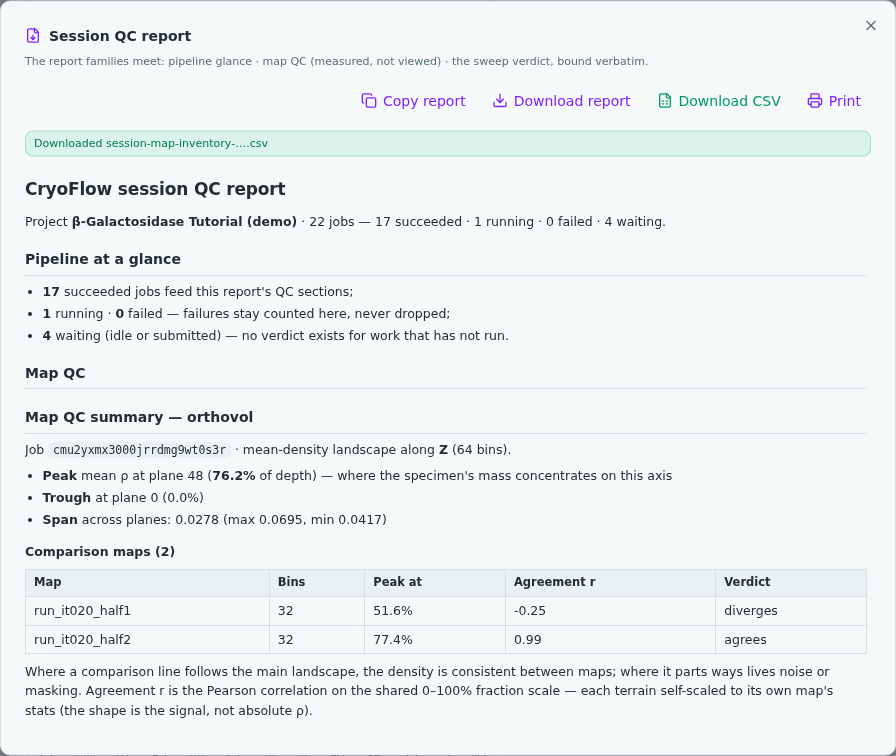
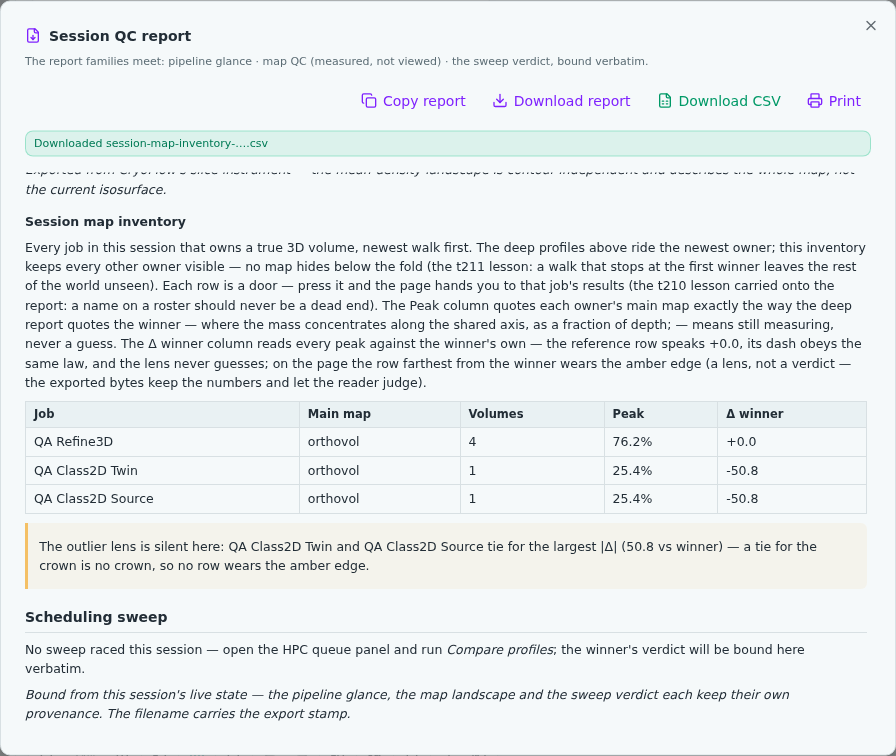
feat(qc-report): silence has two meanings — the lens speaks the contested crown. t219 carried the tie branch onto the wire, but the paper stayed SILENT there: zero amber is the truth when everyone agrees, and a mystery when two rows share the largest |Δ| (the same volume imported twice under two nam

diff --git a/src/lib/qc-report.ts b/src/lib/qc-report.ts
@@ -250,31 +250,62 @@ export const inventoryCsv = (rows: InventoryCsvRow[] | null): string | null => {
   return [line(["job", "main_map", "volumes", "peak_pct", "delta_winner"]), ...body].join("\n");
 };
 
-/** t215: WHO is the outlier? The row whose |Δ| is strictly the largest
- *  AND strictly greater than zero — a tie for the crown is no crown
- *  (a contested superlative is a guess, and the lens never guesses),
- *  and the winner's own +0.0 can never outshine itself. Returns the
- *  row index, or -1 when the world is tied / unmeasured. Three-state
- *  discipline: comparisons are >=/> with an epsilon, never a unary
- *  (a<b?1:-1) — the t211 comparator lesson, lens edition. */
-export const outlierRowIdx = (rows: { peakPct: number | null }[]): number => {
+/** The ONE scan both lenses read (t220: twins fork, imports don't —
+ *  a second scan is a second father for the verdict, and the two lenses
+ *  must never disagree about who led the field). Walks the rows once,
+ *  tracking the strictly-largest |Δ| on the 1-decimal grid with the
+ *  epsilon discipline (t215: comparisons, never a unary comparator),
+ *  and collects EVERY row that shares it. The winner's own +0.0 can
+ *  never lead (a > 1e-9 gate); unmeasured rows are invisible to the
+ *  scan (— stays —). abs is the shared magnitude on the same grid. */
+type CrownScan = { abs: number; indices: number[] };
+const crownScan = (rows: { peakPct: number | null }[]): CrownScan => {
   const w = rows[0]?.peakPct ?? null;
-  if (w == null) return -1;
-  let best = -1;
+  if (w == null) return { abs: 0, indices: [] };
   let bestAbs = 0;
-  let unique = false;
+  let indices: number[] = [];
   rows.forEach((r, i) => {
     if (r.peakPct == null) return;
     const a = Math.abs(Number((r.peakPct - w).toFixed(1)));
     if (a > bestAbs + 1e-9) {
-      best = i;
       bestAbs = a;
-      unique = true;
-    } else if (Math.abs(a - bestAbs) <= 1e-9 && i !== best) {
-      unique = false;
+      indices = [i];
+    } else if (Math.abs(a - bestAbs) <= 1e-9 && a > 1e-9) {
+      indices.push(i);
     }
   });
-  return unique && bestAbs > 1e-9 ? best : -1;
+  return { abs: bestAbs, indices };
+};
+
+/** t215: WHO is the outlier? The row whose |Δ| is strictly the largest
+ *  AND strictly greater than zero — a tie for the crown is no crown
+ *  (a contested superlative is a guess, and the lens never guesses).
+ *  Returns the row index, or -1 when the world is tied / unmeasured.
+ *  t220: the scan is SHARED with contestedCrown — one walk of the rows
+ *  feeds both lenses, so the amber edge and the paper's tie note can
+ *  never be two opinions. */
+export const outlierRowIdx = (rows: { peakPct: number | null }[]): number => {
+  const { abs, indices } = crownScan(rows);
+  return indices.length === 1 && abs > 1e-9 ? indices[0] : -1;
+};
+
+/** t220: silence has TWO meanings, and a lens that cannot tell them
+ *  apart leaves the reader guessing. When every measured row agrees
+ *  with the winner, zero amber is the truth and needs no footnote; but
+ *  when two or more rows SHARE the strictly-largest |Δ| — the same map
+ *  imported twice under two names, a duplicated job, two fathers of one
+ *  shape — outlierRowIdx returns -1 and the reader sees an unexplained
+ *  absence. contestedCrown speaks that case: it returns the shared
+ *  magnitude and the indices of every row tied for the crown, so the
+ *  paper can NAME the standoff instead of leaving silence. Returns null
+ *  when the world has a unique outlier (the amber edge already speaks)
+ *  or no divergence at all (nothing to explain). Same scan, same grid,
+ *  same epsilon — a sibling lens, not a second opinion. */
+export const contestedCrown = (
+  rows: { peakPct: number | null }[],
+): { abs: number; indices: number[] } | null => {
+  const { abs, indices } = crownScan(rows);
+  return indices.length > 1 ? { abs, indices } : null;
 };
 
 /** Every PAIR of comparison terrains, correlated on the shared fraction
@@ -657,6 +688,30 @@ export const buildSessionReport = (opts: {
       lines.push(`| ${mdCell(o.jobName)} | ${mdCell(o.mainName)} | ${o.volumeCount} | ${o.peak ?? "—"} | ${delta ?? "—"} |`);
     }
     lines.push("");
+    // t220: the lens explains its own silences. When the crown is
+    // contested (contestedCrown — the SAME scan the amber edge reads,
+    // so the page and the paper can never disagree) the zero-amber
+    // table gets a footnote naming every contender and the shared |Δ|.
+    // The note lives in the MARKDOWN — the exported bytes and the
+    // clipboard copy carry the explanation, not just the page (the
+    // t218 CSV stays numbers-only: the roster's machine grid speaks
+    // facts, the lens's verdicts travel with the paper). In a world
+    // with a unique outlier or no divergence this line is never born —
+    // front-wave probes' paper bytes are untouched.
+    const crown = contestedCrown(mapInventory);
+    if (crown) {
+      const andList = (names: string[]): string =>
+        names.length <= 1
+          ? names.join("")
+          : `${names.slice(0, -1).join(", ")} and ${names[names.length - 1]}`;
+      const contenders = crown.indices
+        .map((i) => mapInventory[i]?.jobName)
+        .filter((n): n is string => !!n);
+      lines.push(
+        `> The outlier lens is silent here: ${andList(contenders)} tie for the largest |Δ| (${crown.abs.toFixed(1)} vs winner) — a tie for the crown is no crown, so no row wears the amber edge.`,
+      );
+      lines.push("");
+    }
   }
   lines.push("## Scheduling sweep");
   lines.push("");

diff --git a/src/app/globals.css b/src/app/globals.css
@@ -1388,11 +1388,19 @@ li[data-swipe="end"] {
 .report-doc p { margin: 0.4rem 0; }
 .report-doc ul { margin: 0.4rem 0; padding-left: 1.1rem; list-style: disc; }
 .report-doc li { margin: 0.15rem 0; }
+/* t220: the tie footnote — the lens explains its own silence. The
+   report's only blockquote is a lens annotation, so the note wears the
+   lens color: amber edge and a faint amber wash, rounded on the open
+   side, text kept at full foreground for contrast (amber TEXT on a
+   dark canvas is a squint — the color lives in the frame, not the
+   words). */
 .report-doc blockquote {
-  margin: 0.5rem 0;
-  padding: 0.25rem 0.6rem;
-  border-left: 3px solid var(--border);
-  color: var(--muted-foreground);
+  margin: 0.6rem 0;
+  padding: 0.45rem 0.7rem;
+  border-left: 3px solid rgb(245 158 11 / 0.6);
+  background: rgb(245 158 11 / 0.06);
+  border-radius: 0 6px 6px 0;
+  color: var(--foreground);
 }
 .report-doc code {
   font-family: var(--font-mono, ui-monospace, monospace);

diff --git a/worklog.md b/worklog.md
@@ -256,3 +256,25 @@ Stage Summary:
 - 「roster 恒等 21 与第三 owner 共存」：探针内临时世界（setup 造、teardown 拆）让 tie 断言不需要 22-job 的世界——前浪的 Z1 一行不用改；t219 的 teardown 三连全可靠（崩了会留 twin，但 gc-orphans 会在下一轮把它当化石收走——GC 是探针世界的清洁工兜底）
 - 「checkout 清单是具名工件」：上窗漏 t210 的教训进了判例——恢复动作要么全列、要么按 glob，凭记忆的列表是最脆的档案纪律
 - 遗留（下轮候选）：gc-quarantine 清理节奏盘点（探针全绿 N 窗后整体删除）；qa77 孤儿 job 基线复核；透镜纸面化（哲学门槛维持）；updatedAt 治理（大工程）；EMPIAR（让位）；CSV copy 路径（需求未现）
+
+## Task 220 (2026-09-16, cron 02:32 窗口 trace …202609160232)
+
+- 【开局】四件套：尾部 = Task 219（4d5fa9d，摘要再次落后两窗——过时 recital 判例 25+ 度）；净场 → watchdog 拉起 + qa00/qa63 GREEN + 回归快扫 t219 20/0 + t218 21/0 + t215 38/0。
+- 【侧任务销账】① **qa77 基线复核** ALL PASS（roster 21 新常态下 orphan adoption 四相全绿——遗留销账）；② **gc-quarantine 盘点**：2 run（L2 演练化石 + t219 teardown 尾气）6.9MiB——t219 遗留的「三窗全绿后收割」节奏判满（t218/t219/本窗三连全绿）→ 本窗收割：workdir 化石删除、两份 engine-state.backup.json 收据保留在 .qa-logs/gc-quarantine-retired/（44K，考古绳）、db-backup-t217.db 保命绳一并退役。
+- 【立项】Task 220 = **the lens speaks the contested crown**——t219 把 tie 搬上活线，但纸面在 tie 世界是沉默的：研究者分不清「大家都一致」（好）和「两个 owner 争夺王冠」（可疑——同一 volume 被导入两次的真实用户场景）。零玸珀有两种含义，透镜必须会说第二种。
+- 【实现：one scan, two lenses】
+  - qc-report.ts：抽共享 `crownScan`（同一遍扫描、同 1-decimal 网格、同 epsilon 纪律）→ `outlierRowIdx`（唯一王）重构为读同一扫描 + 新 `contestedCrown`（≥2 行共享严格最大 |Δ|>0 → `{abs, indices}`；唯一 outlier 或全一致 → null）——twins fork, imports don't 的透镜版：两片透镜永不许是两种意见
+  - 纸面注脚活在 **markdown 源**（buildSessionReport 表后条件插入 blockquote 行）——data-md、剪贴板 copy、export md 全部携带同一真相；CSV 保持纯数字（名册的机器格说事实，透镜的判决随纸旅行）；唯一 outlier / 全一致世界此行**从不出生**——前浪探针的纸字节零扰动（t210-t215 全绿实证）
+  - 注脚文案用 t219 教义原句收尾："a tie for the crown is no crown, so no row wears the amber edge"；点名全部并列者（andList 格式化）+ 共享 |Δ|
+  - globals.css：`.report-doc blockquote` 换玸珀注脚装（琥珀左边线 + 6% 琥珀底 + 单侧圆角；文字保持前景色——深底上的琥珀字是眯眼，颜色住在框里不住在词里）
+  - **对话框组件零改动**——注脚从 markdown 自然流出，渲染层无第二个父亲
+- 【t219-e2e 20→27 断言 ×3 绿】D2b 注脚点名双方+共享 |Δ|（**初版断言的顺序假设被世界打脸**：名册 newest-walk-first，注脚是「Twin and Source」不是「Source and Twin」——改为顺序无关：提取注脚行、验双方在场）；D2c 教义原句逐字；D2d 渲染层恰一个 blockquote；Z2-Z5 teardown 后负分支活线（未 tie 世界两行 + 玸珀归位 + 注脚消失 + console 净）。bun 单测 12 世界形态全绿（唯一 FAIL 是测试自己算错 index——代码对）。
+- 【定妆照】t219-tie-2x 顶部框框不到折叠线下的注脚 → **注脚赢得自己的画框**：scrollIntoView 后第二张 t219-tie-note-2x.png（表三行零玸珀 + 琸珀注脚同框）——两张都是故意的新帧，随 feature 提交；前浪漂移 ×8（t210×3/t212/t213/t214/t215/t218，其世界无 blockquote 纯渲染噪声）→ 具名 checkout 清单恢复。
+- 【收尾】worklog（本条）+ commit + push + 环境清理。
+
+Stage Summary:
+- 「零玸珀有两种含义」：全一致（真相，无需注脚）与并列争冠（可疑，必须点名）——contestedCrown 让透镜会说第二种沉默；「silence has two meanings, and a lens that cannot tell them apart leaves the reader guessing」
+- 「one scan, two lenses」：crownScan 共享扫描让玸珀边与纸面注脚永不 disagreement——重构后 outlierRowIdx 行为逐位不变（t215/t218/t219/t210 四探针 pin 死），新透镜是兄弟不是第二意见
+- 「注脚活在 markdown 源」：单一事实源教义的又一次胜利——组件零改动，导出字节自动携带解释；CSV 拒绝跟随（facts 是名册的，verdicts 是纸的）
+- 「注脚值得自己的画框」：顶部定妆照框不到折叠线下的增量 = 没有画框——scrollIntoView 后的第二张照让 t220 的增量在档案里可见
+- 遗留（下轮候选）：qa77 销账；gc-quarantine 收割销账（收据 44K 在 gc-quarantine-retired/）；透镜纸面化（哲学门槛维持）；updatedAt 治理（大工程）；EMPIAR（让位）；CSV copy 路径（让位）；t219 注脚顺序判例——「断言不许假设并列者的出场顺序，walk 的顺序是 walk 的事」
